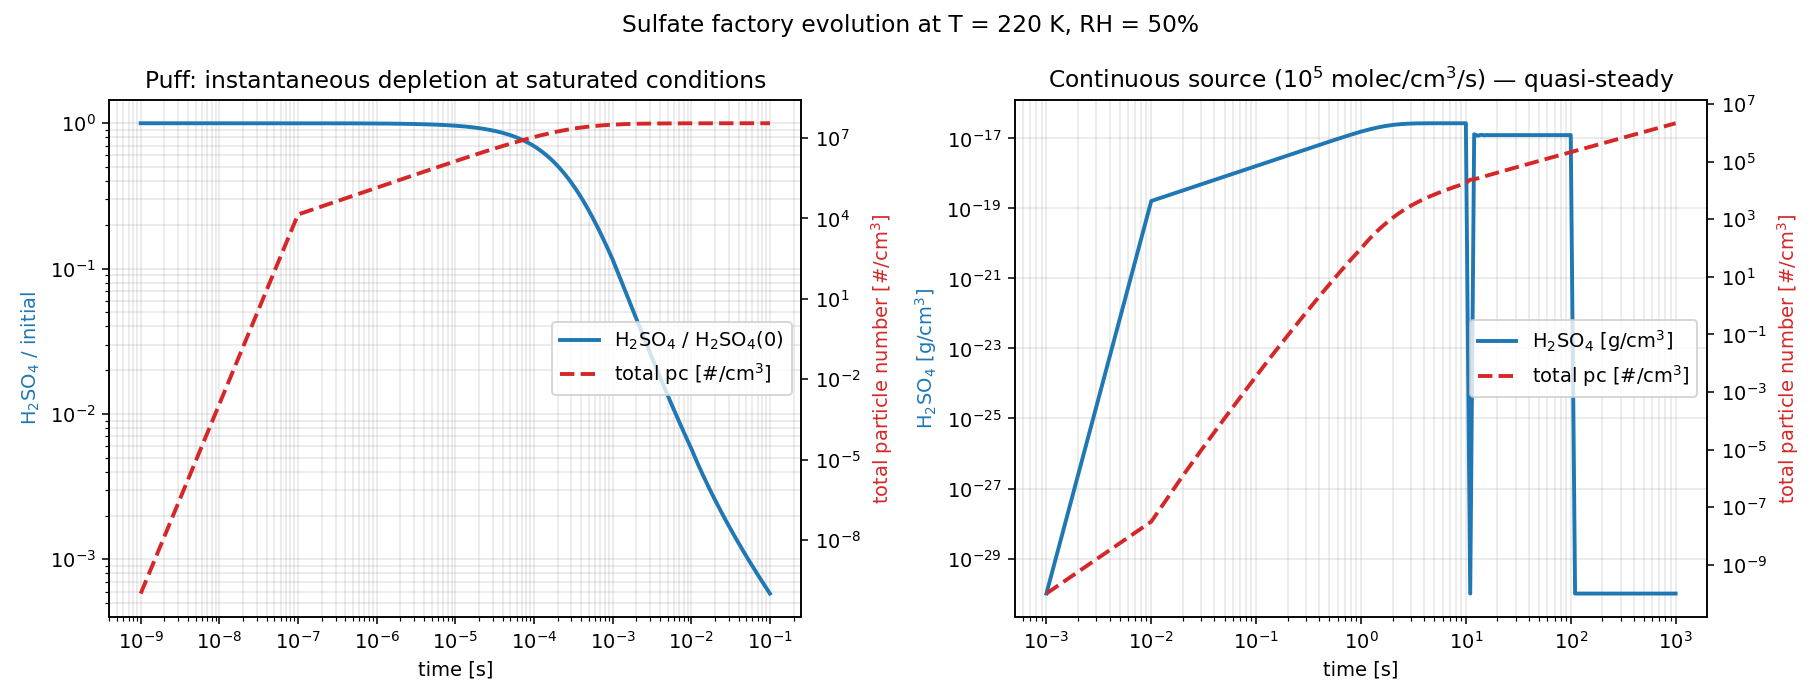
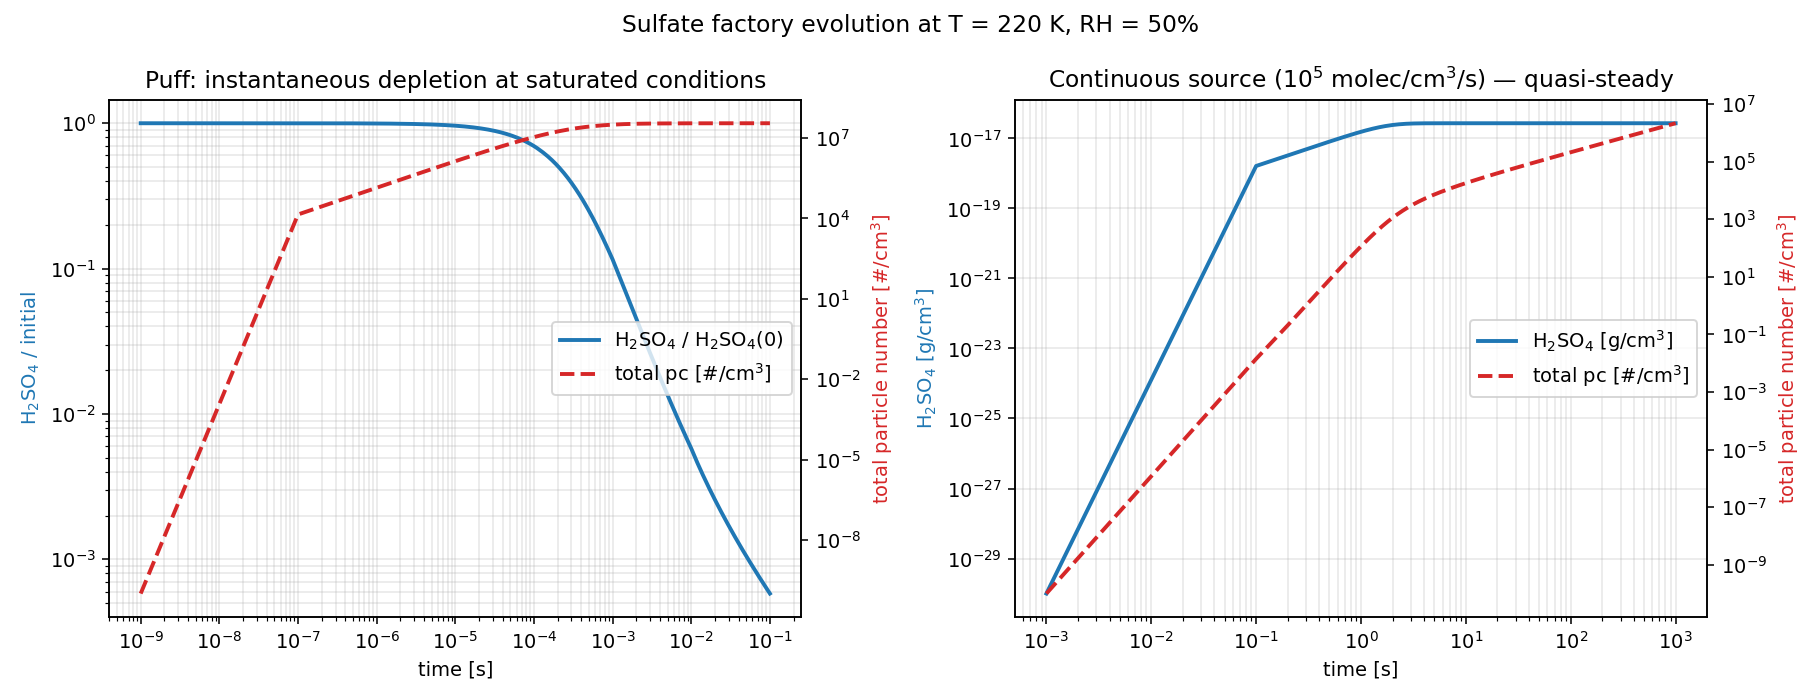
Fix jagged source curve: use uniform dt
The variable dt schedule (0.01s → 0.1s → 1s → 10s) caused the mass-gate
to fire asymmetrically at each schedule boundary — each 10x dt jump
injected 10x more gas per step, which the gate consumed in one step,
causing the apparent sawtooth at t=10s and t=100s. Uniform dt=0.1s
shows the real quasi-steady plateau cleanly.

diff --git a/scripts/validate_sulfate_step.py b/scripts/validate_sulfate_step.py
@@ -148,16 +148,14 @@ def fig_time_evolution():
     )
 
     # --- Right panel: continuous source, ~stratospheric production ---
-    # 1e5 molec/cm³/s ≈ stratospheric SO2+OH flux
+    # 1e5 molec/cm³/s ≈ stratospheric SO2+OH flux. Uniform dt to avoid
+    # the mass-gate artefact: each step injects ``src · dt`` of gas;
+    # changing dt mid-run changes the injection pulse size and causes
+    # the gate to fire asymmetrically at the schedule boundary.
     src_molec_per_s = 1e5
     src_g_per_s = src_molec_per_s * _GWTMOL_H2SO4 / float(AVG)
     gc_start = jnp.asarray([gc0[0], 0.0])  # start with no H2SO4
-    schedule_source = [
-        (0.01, 100),   # 0–1 s
-        (0.1, 90),     # 1–10 s
-        (1.0, 90),     # 10–100 s
-        (10.0, 90),    # 100–1000 s
-    ]
+    schedule_source = [(0.1, 10000)]       # uniform 0.1-s dt for 1000 s
     t_src, gc_src, pc_src = _run_with_source(
         cfg, gc_start, pvapl, T, src_g_per_s, schedule_source,
     )
